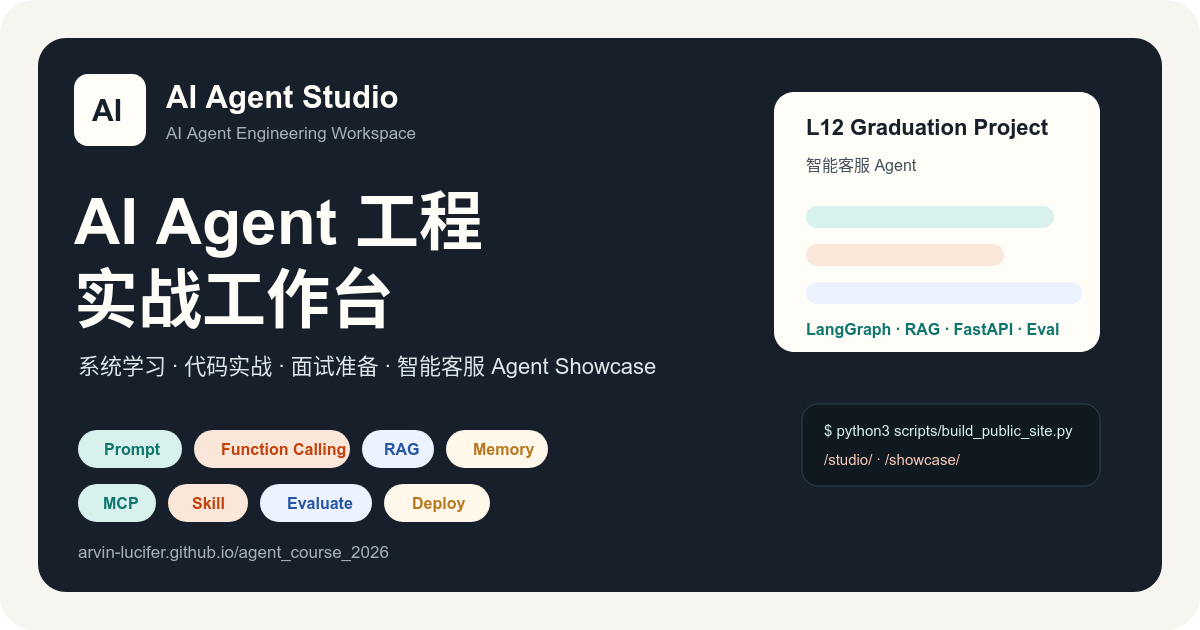
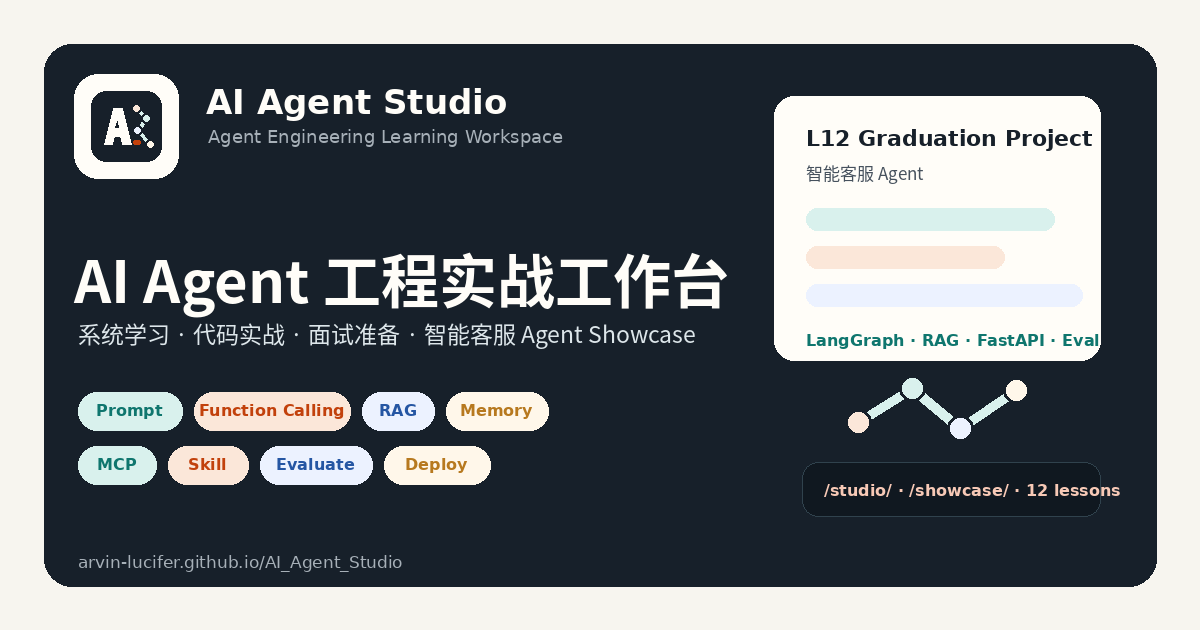
Add AI Agent Studio brand identity assets

diff --git a/apps/agent_course_studio/web/styles.css b/apps/agent_course_studio/web/styles.css
@@ -137,9 +137,13 @@ body[data-theme="dark"] .studio-header {
   height: 40px;
   border-radius: 7px;
   background: var(--ink);
-  color: #fffdf8;
-  font-weight: 800;
-  letter-spacing: 0;
+  overflow: hidden;
+}
+
+.brand-mark img {
+  display: block;
+  width: 40px;
+  height: 40px;
 }
 
 .brand-title {

diff --git a/site.css b/site.css
@@ -52,7 +52,7 @@ a {
   font-weight: 800;
 }
 
-.brand span {
+.brand-symbol {
   display: grid;
   place-items: center;
   width: 36px;
@@ -60,6 +60,12 @@ a {
   border-radius: 7px;
   background: var(--ink);
   color: #fffdf8;
+}
+
+.brand-symbol img {
+  width: 36px;
+  height: 36px;
+  display: block;
 }
 
 .site-nav nav {

diff --git a/apps/agent_course_studio/web/index.html b/apps/agent_course_studio/web/index.html
@@ -4,6 +4,7 @@
     <meta charset="utf-8" />
     <meta name="viewport" content="width=device-width, initial-scale=1" />
     <title>AI Agent Studio</title>
+    <link rel="icon" href="./assets/favicon.svg" type="image/svg+xml" />
     <link rel="stylesheet" href="./styles.css" />
   </head>
   <body>
@@ -12,7 +13,9 @@
     <div class="app-shell">
       <aside class="sidebar" aria-label="课程导航">
         <div class="brand">
-          <div class="brand-mark">AI</div>
+          <div class="brand-mark" aria-hidden="true">
+            <img src="./assets/ai-agent-studio-mark.svg" alt="" />
+          </div>
           <div>
             <div class="brand-title">AI Agent Studio</div>
             <div class="brand-subtitle">Agent 开发实战工作台</div>

diff --git a/index.html b/index.html
@@ -38,7 +38,7 @@
   <body>
     <header class="site-nav">
       <a class="brand" href="./" aria-label="AI Agent Studio home">
-        <span>AI</span>
+        <span class="brand-symbol" aria-hidden="true"><img src="docs/assets/ai-agent-studio-mark.svg" alt="" /></span>
         <strong>AI Agent Studio</strong>
       </a>
       <nav aria-label="Primary">

diff --git a/showcase/index.html b/showcase/index.html
@@ -21,7 +21,7 @@
   <body>
     <header class="site-nav">
       <a class="brand" href="../" aria-label="AI Agent Studio home">
-        <span>AI</span>
+        <span class="brand-symbol" aria-hidden="true"><img src="../docs/assets/ai-agent-studio-mark.svg" alt="" /></span>
         <strong>AI Agent Studio</strong>
       </a>
       <nav aria-label="Primary">

diff --git a/scripts/build_public_site.py b/scripts/build_public_site.py
@@ -116,7 +116,7 @@ def write_public_home(data: dict) -> None:
   <body>
     <header class="site-nav">
       <a class="brand" href="./" aria-label="AI Agent Studio home">
-        <span>AI</span>
+        <span class="brand-symbol" aria-hidden="true"><img src="assets/ai-agent-studio-mark.svg" alt="" /></span>
         <strong>AI Agent Studio</strong>
       </a>
       <nav aria-label="Primary">
@@ -279,7 +279,7 @@ def write_project_showcase(data: dict) -> None:
   <body>
     <header class="site-nav">
       <a class="brand" href="../" aria-label="AI Agent Studio home">
-        <span>AI</span>
+        <span class="brand-symbol" aria-hidden="true"><img src="../assets/ai-agent-studio-mark.svg" alt="" /></span>
         <strong>AI Agent Studio</strong>
       </a>
       <nav aria-label="Primary">
@@ -457,7 +457,7 @@ a {
   font-weight: 800;
 }
 
-.brand span {
+.brand-symbol {
   display: grid;
   place-items: center;
   width: 36px;
@@ -465,6 +465,12 @@ a {
   border-radius: 7px;
   background: var(--ink);
   color: #fffdf8;
+}
+
+.brand-symbol img {
+  width: 36px;
+  height: 36px;
+  display: block;
 }
 
 .site-nav nav {
@@ -1051,8 +1057,14 @@ def write_branch_root_fallbacks() -> None:
 def write_favicon() -> None:
     ASSETS_DIR.mkdir(parents=True, exist_ok=True)
     favicon = """<svg width="64" height="64" viewBox="0 0 64 64" fill="none" xmlns="http://www.w3.org/2000/svg">
-  <rect width="64" height="64" rx="14" fill="#17202A"/>
-  <text x="18" y="40" fill="#FFFDF8" font-family="Arial,sans-serif" font-size="24" font-weight="800">AI</text>
+  <rect x="4" y="4" width="56" height="56" rx="13" fill="#17202A"/>
+  <path d="M40 18L48 26L41 35L51 46" stroke="#D9F1ED" stroke-width="4" stroke-linecap="round" stroke-linejoin="round"/>
+  <circle cx="40" cy="18" r="4" fill="#FBE7D9" stroke="#17202A" stroke-width="2"/>
+  <circle cx="48" cy="26" r="4" fill="#D9F1ED" stroke="#17202A" stroke-width="2"/>
+  <circle cx="41" cy="35" r="4" fill="#ECF2FF" stroke="#17202A" stroke-width="2"/>
+  <circle cx="51" cy="46" r="4" fill="#FFF7EA" stroke="#17202A" stroke-width="2"/>
+  <path d="M14 46L21.5 18H28.5L36 46H29L27.5 40H22L20.5 46H14ZM23.5 33H26L25 28L23.5 33Z" fill="#FFFDF8"/>
+  <rect x="37" y="43" width="6" height="3" rx="1.5" fill="#C2410C"/>
 </svg>
 """
     (ASSETS_DIR / "favicon.svg").write_text(favicon, encoding="utf-8")

diff --git a/scripts/validate_project.py b/scripts/validate_project.py
@@ -140,8 +140,8 @@ def check_public_site() -> None:
     readme = README.read_text(encoding="utf-8")
     docs_index = DOCS_INDEX.read_text(encoding="utf-8")
     for image in [
+        "docs/assets/ai-agent-studio-brand-card.png",
         "docs/assets/course-roadmap.png",
-        "docs/assets/ai-agent-studio-social-card.png",
         "docs/assets/studio-architecture.png",
         "docs/assets/capability-matrix.png",
         "docs/assets/site-preview.png",
@@ -150,6 +150,13 @@ def check_public_site() -> None:
     ]:
         if image not in readme:
             fail(f"README does not reference {image}")
+        if not (ROOT / image).exists():
+            fail(f"{image} is missing")
+    for image in [
+        "docs/assets/ai-agent-studio-social-card.png",
+        "docs/assets/ai-agent-studio-mark.svg",
+        "docs/assets/favicon.svg",
+    ]:
         if not (ROOT / image).exists():
             fail(f"{image} is missing")
     for local_ref in ["assets/course-roadmap.png", "assets/studio-architecture.png", "assets/capability-matrix.png"]:

diff --git a/README.md b/README.md
@@ -12,7 +12,7 @@
 ![Pages](https://img.shields.io/badge/GitHub%20Pages-ready-B7791F)
 ![License](https://img.shields.io/badge/Use-Teaching%20%26%20Practice-B7791F)
 
-![AI Agent Studio social card](docs/assets/ai-agent-studio-social-card.png)
+![AI Agent Studio brand card](docs/assets/ai-agent-studio-brand-card.png)
 
 ![AI Agent Studio Roadmap](docs/assets/course-roadmap.png)
 